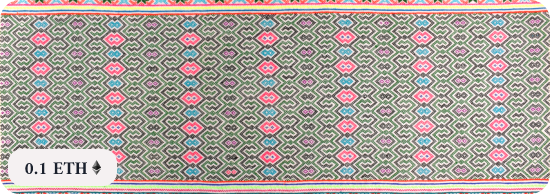
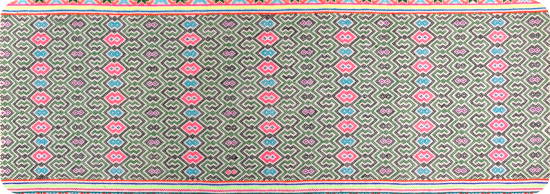
fix minor error

Changed region(s): [[0.0, 0.7423, 0.2164, 0.9588]]

diff --git a/components/nft-sale-widget/commons/nft-item.tsx b/components/nft-sale-widget/commons/nft-item.tsx
@@ -1,7 +1,6 @@
 import { Box, Image, Text } from "@chakra-ui/react";
 import NFTPrice from "@/components/commons/nftprice";
 import MintButton from "@/components/mint-button";
-import useBuySpecificNftCopy from "@/hooks/useBuySpecificNftCopy";
 
 interface NFTItemProps {
   item: {
@@ -16,21 +15,8 @@ interface NFTItemProps {
 }
 
 const NFTItem = ({ item, index, isRandom }: NFTItemProps) => {
-  // const { buySpecificCopy, isPending, isConfirming, isMinting } =
-  //   useBuySpecificNftCopy();
-
   const handleMint = async () => {
     console.log("Minting NFT");
-    // if (!item.isSold) {
-    //   try {
-    //     await buySpecificCopy(
-    //       parseInt(item.batchId, 10),
-    //       parseInt(item.tokenId, 10)
-    //     );
-    //   } catch (error) {
-    //     console.error("Failed to mint NFT:", error);
-    //   }
-    // }
   };
 
   return (
@@ -51,9 +37,8 @@ const NFTItem = ({ item, index, isRandom }: NFTItemProps) => {
           h="100%"
           objectFit="cover"
         />
-        <Box p={isRandom ? 0 : 2}>
-          <NFTPrice price={item.price} />
-        </Box>
+
+        <NFTPrice price={item.price} />
       </Box>
       <Box mt={2}>
         <MintButton

diff --git a/components/nft-sale-widget/layout/mint-section.tsx b/components/nft-sale-widget/layout/mint-section.tsx
@@ -1,5 +1,5 @@
 import React, { useEffect, useState } from "react";
-import { Box, Grid, Flex } from "@chakra-ui/react";
+import { Box, Grid } from "@chakra-ui/react";
 import { useQuery } from "@apollo/client";
 import { getAllSalesWithTokens } from "@/services/graph";
 import { type GetAllSalesWithTokensData } from "@/services/types";
